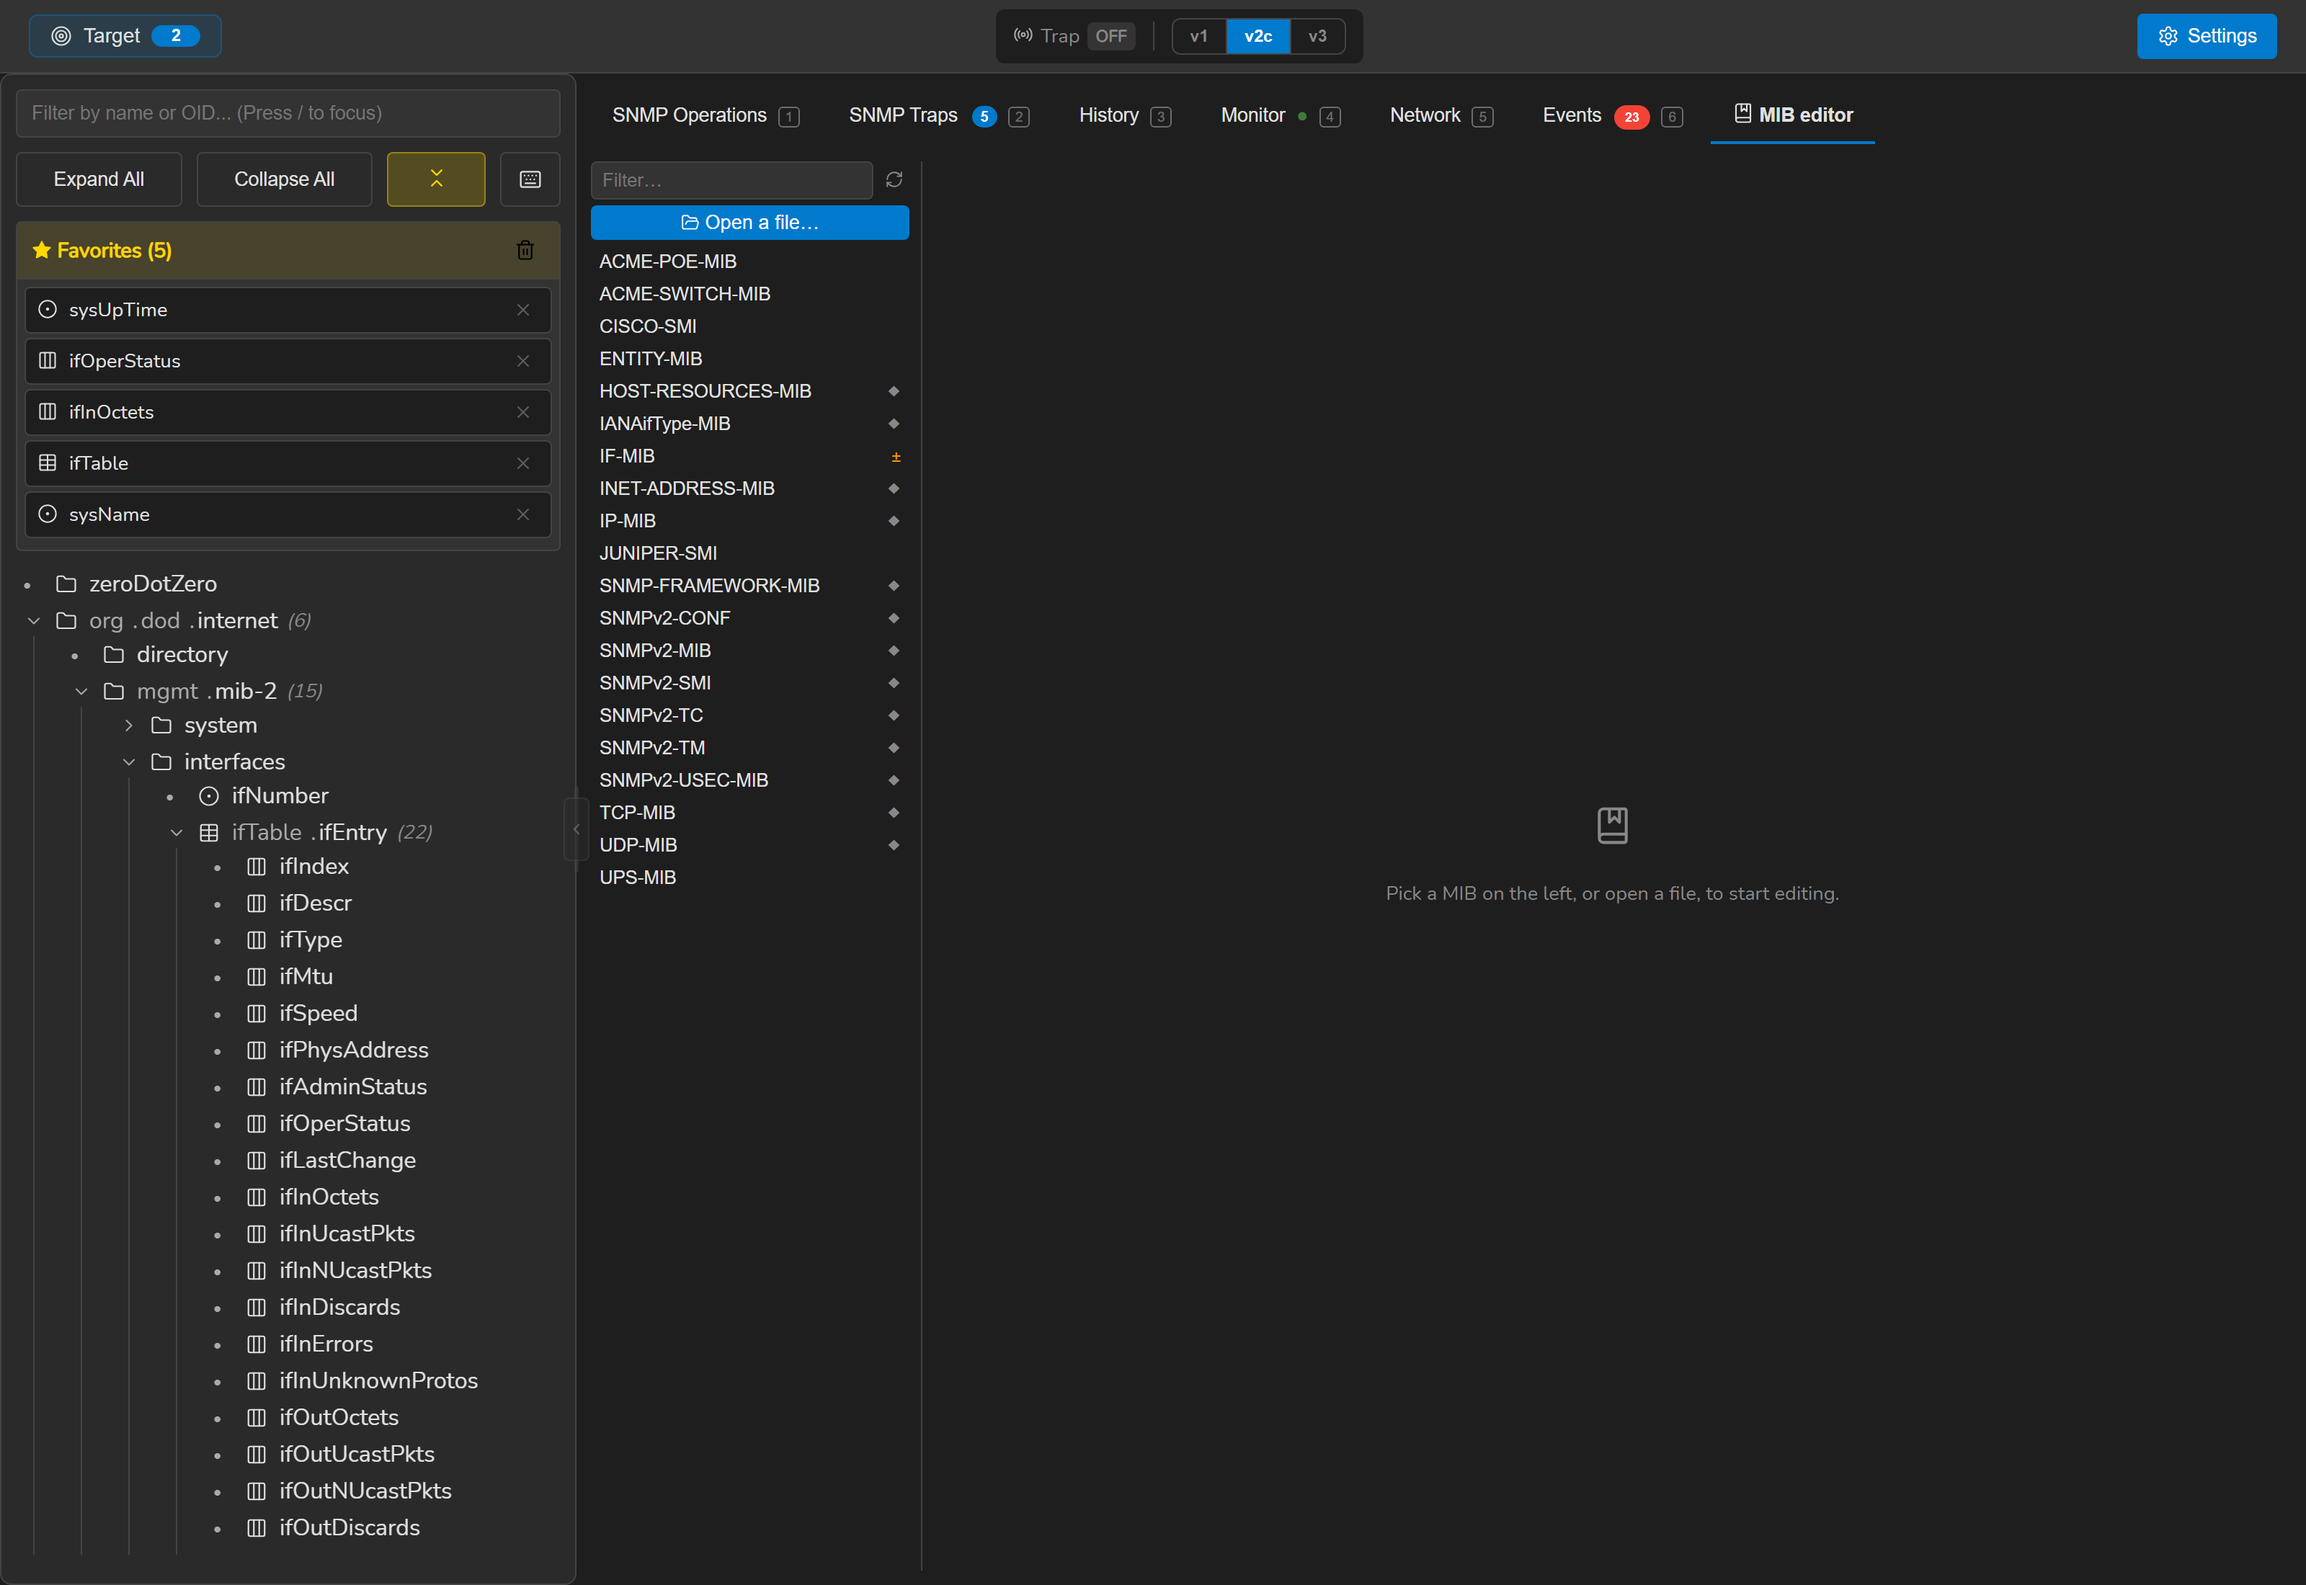
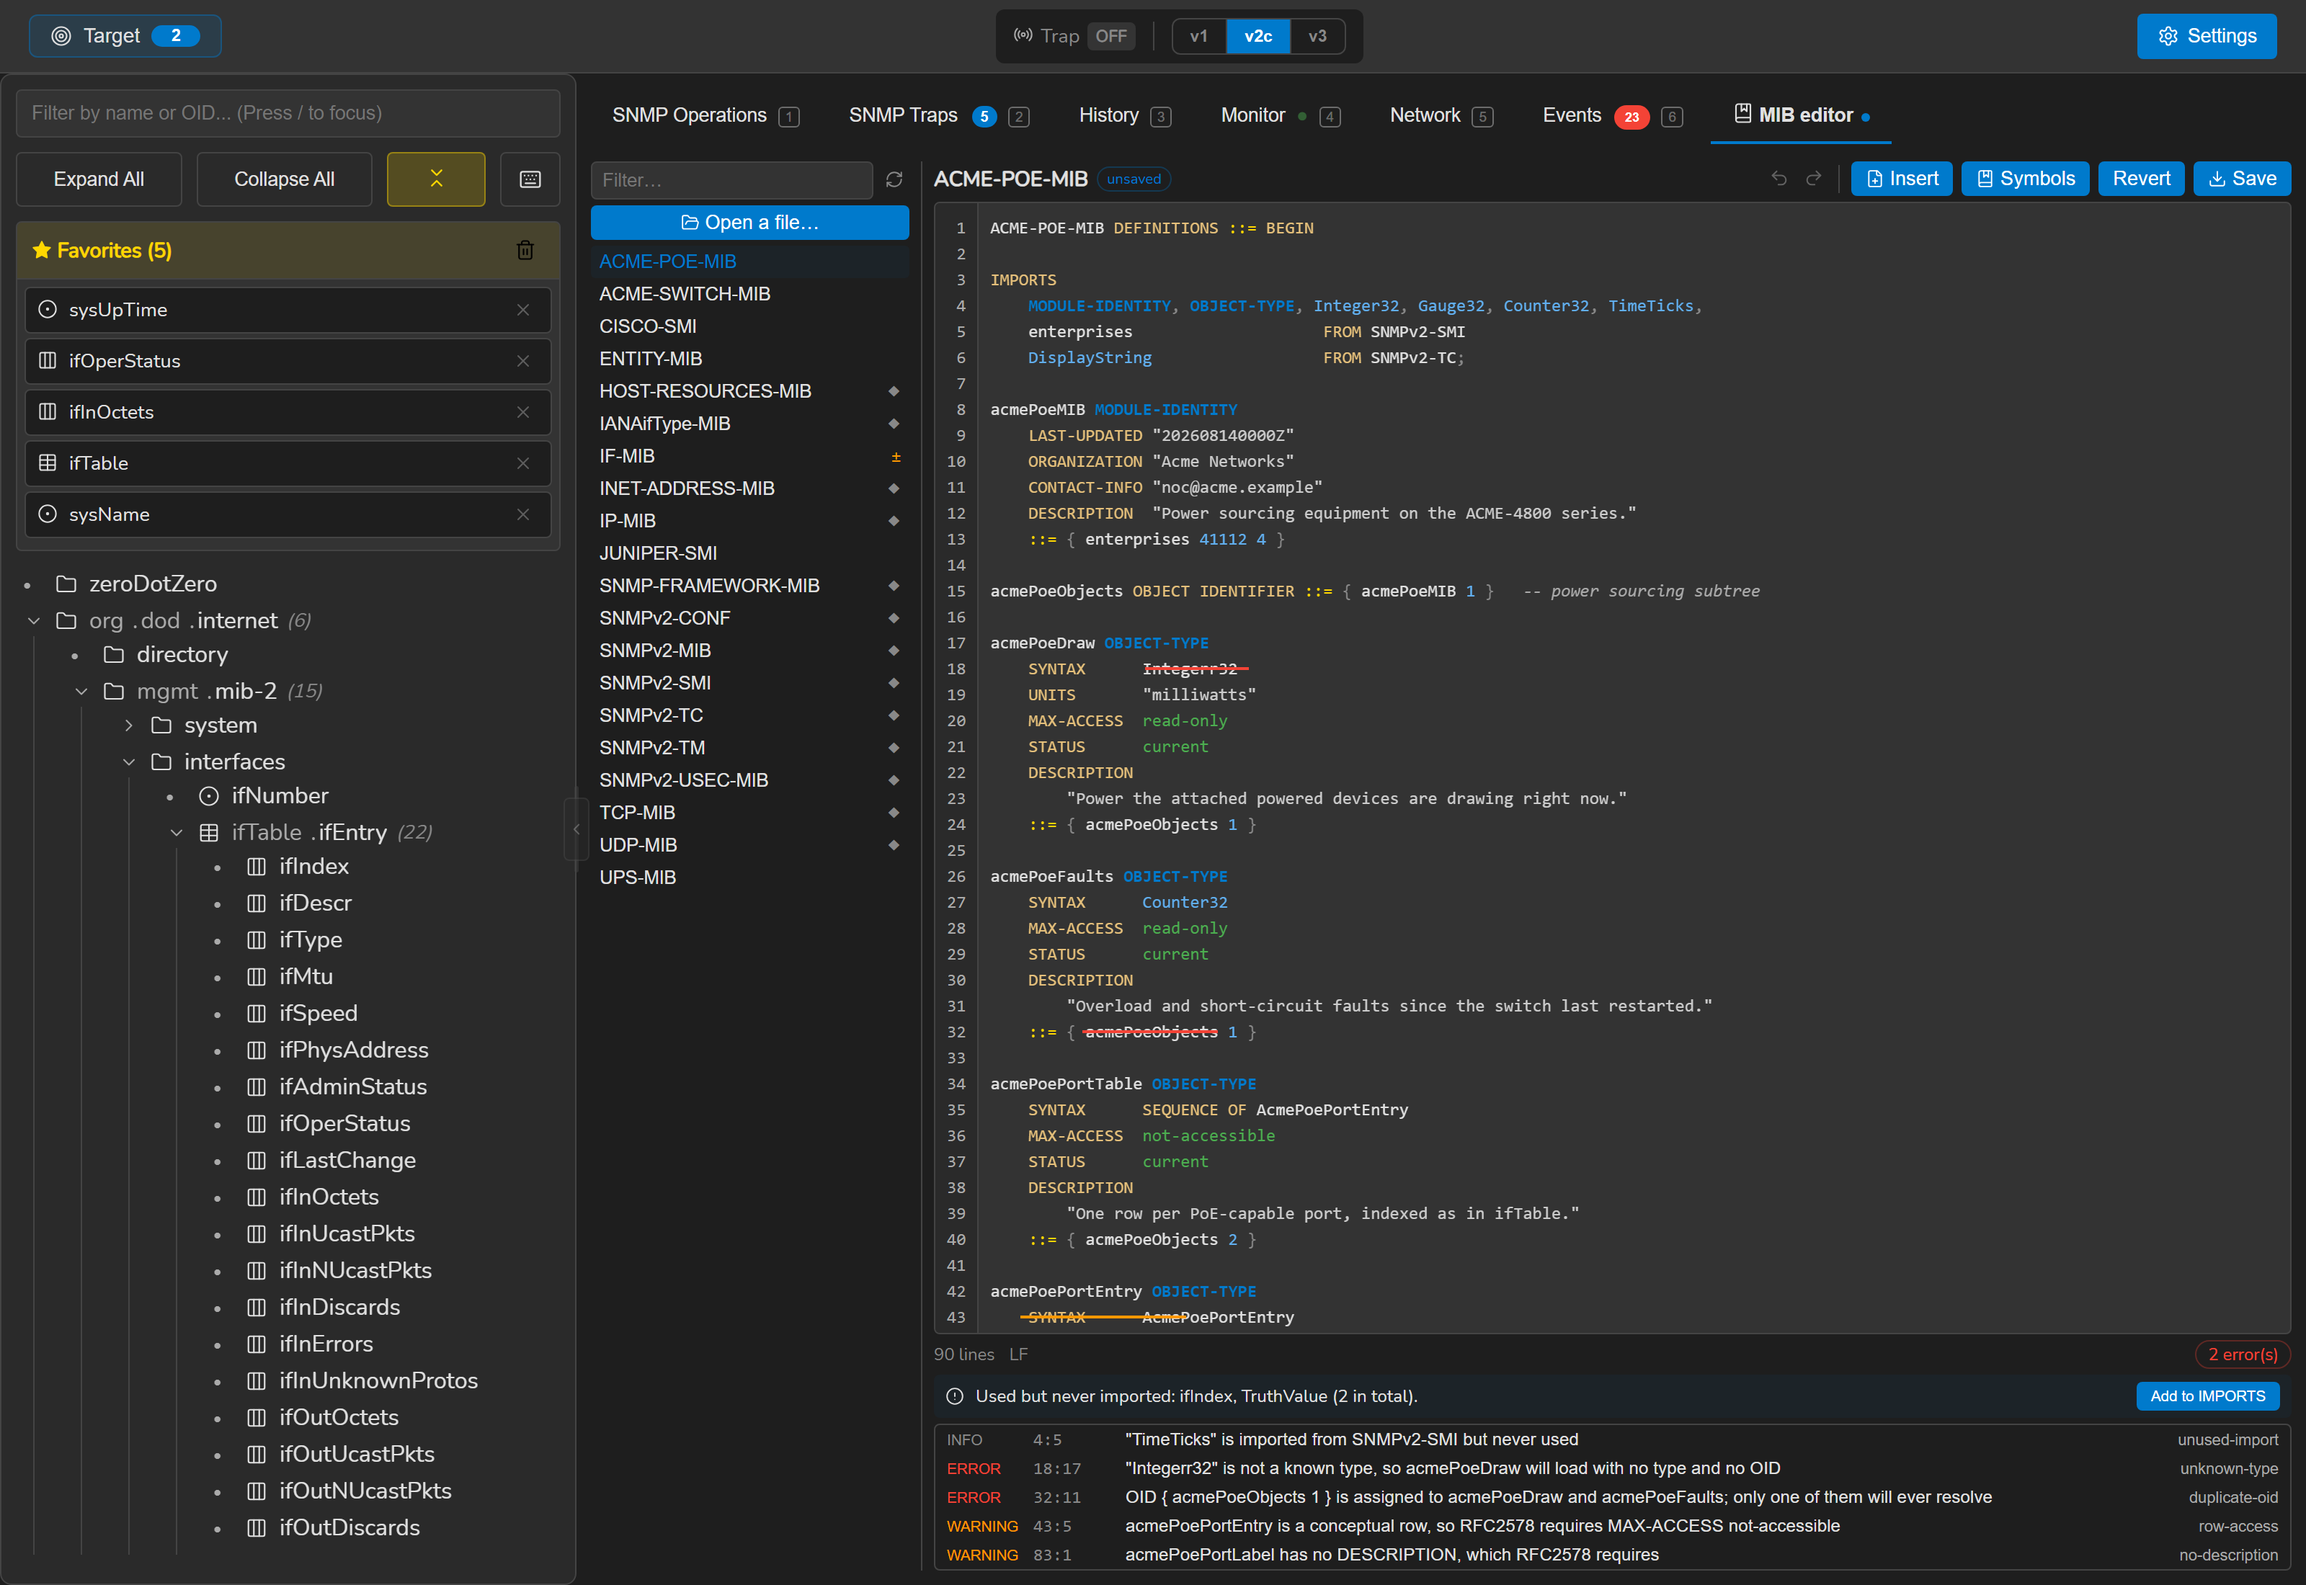
Open a MIB in the editor shot, and document targets and settings
Three gaps, and fixing the first found two bugs of my own.

THE EDITOR showed its empty state — "pick a MIB on the left" — which is a
picture of the file list rather than of the editor. Opening one was not enough:
the fixture's `content` was a DESCRIPTION of the file rather than the file
("<<the 90-line ACME-POE-MIB printed verbatim in visualDirection>>"), so the
highlighter would have rendered that sentence, and the diagnostics pointed at
lines of a file that did not exist. The MIB is here for real, imported rather
than pasted, because the positions are derived from it: line 18 column 17 is
exactly where `Integerr32` starts.

Opening a file does not run the analysis — only an edit or a RECOVERED DRAFT
does. So the copy on disk is sound and the unsaved draft is what introduced the
error, which is a real mechanism rather than a trick, and shows two things in
one frame: work surviving a closed window, and the semantic pass catching what
loading alone reports as success.

TARGETS AND SETTINGS now have their own images, placed in the documentation
beside the sections they illustrate rather than only in the gallery. The targets
dialog shows eight devices across four groups with three carrying a per-device
override — two routers migrated to v3 and a UPS still on v1, which is the
situation the feature exists for. The SNMP tab names the credential backend in
use, with a v3 user and BLANK passphrases: the interface never receives a stored
[…]

diff --git a/docs/documentation.html b/docs/documentation.html
@@ -244,6 +244,10 @@ python tools/snmp_test_agent.py --trap-port 1162 --trap-interval 10</code></pre>
         written — saving a credential fails and says so. It is never silently discarded, and
         good ciphertext is never overwritten with a half-sealed value.
       </p>
+      <figure class="shot" style="margin-top:1.5rem">
+        <img src="assets/img/settings-snmp.png" alt="The SNMP settings tab: version, community, timeouts, and the v3 authentication and privacy protocols." loading="lazy" />
+        <figcaption>The defaults every target inherits until it overrides them.</figcaption>
+      </figure>
     </section>
 
     <!-- ---------------------------------------------------------------- -->
@@ -258,6 +262,11 @@ python tools/snmp_test_agent.py --trap-port 1162 --trap-interval 10</code></pre>
         <strong>Test connection</strong> checks reachability and credentials before you run
         an operation against fifty devices.
       </p>
+      <figure class="shot" style="margin-top:1.5rem">
+        <img src="assets/img/target-manager.png" alt="The targets dialog: eight devices across four groups, three of them carrying a per-device override." loading="lazy" />
+        <figcaption>Groups down the top, and the marker beside an address means that device
+          overrides the defaults — here two routers on v3 and a UPS still on v1.</figcaption>
+      </figure>
     </section>
 
     <!-- ---------------------------------------------------------------- -->
@@ -398,6 +407,12 @@ python tools/snmp_test_agent.py --trap-port 1162 --trap-interval 10</code></pre>
         same module and win. Unsaved work is mirrored to a draft file, so it survives closing
         the window.
       </p>
+      <figure class="shot" style="margin-top:1.5rem">
+        <img src="assets/img/mib-editor.png" alt="The MIB editor with a vendor MIB open, syntax highlighted, two errors underlined, and a list of five diagnostics with their line and column." loading="lazy" />
+        <figcaption>An unsaved draft recovered from a previous session, with the analysis
+          pointing at an unknown type and a duplicated OID — neither of which loading the
+          module would have reported.</figcaption>
+      </figure>
     </section>
 
     <hr />
@@ -600,6 +615,12 @@ python tools/snmp_test_agent.py --trap-port 1162 --trap-interval 10</code></pre>
           200 having been sent nothing — and the delivery would be recorded as successful.
         </p>
       </div>
+      <figure class="shot" style="margin-top:1.5rem">
+        <img src="assets/img/settings-notifications.png" alt="Notification settings: three destinations, three routing rules with priorities, and a delivery log containing one given-up delivery." loading="lazy" />
+        <figcaption>Destinations, the rules that select them, and the delivery log — including
+          the one delivery that was given up on, with what the relay said and a button to try
+          again.</figcaption>
+      </figure>
     </section>
 
     <!-- ---------------------------------------------------------------- -->

diff --git a/frontend/screenshots/scenes.js b/frontend/screenshots/scenes.js
@@ -132,7 +132,74 @@ export function buildScenes(seeds) {
     tab: TABS.mibeditor,
     theme: 'dark',
     height: 1100,
-    describe: 'A MIB open with syntax highlighting and a diagnostic on the line.',
+    // Without this the editor shows its empty state — "pick a MIB on the left"
+    // — which is a picture of the file list, not of the editor.
+    act: ['ACME-POE-MIB'],
+    describe: 'A MIB open, highlighted, with the analysis pointing at the line.',
+  }),
+
+  scene(base, 'target-manager', {
+    tab: TABS.operations,
+    theme: 'dark',
+    // Framed to the dialog. At 1100 the lower half was empty backdrop, which
+    // makes a documentation image about a dialog mostly about nothing.
+    height: 940,
+    // A real estate rather than two devices: three groups, and per-device
+    // overrides on the two that were migrated to v3 while the rest were not,
+    // which is the situation the feature exists for.
+    settings: {
+      targets: [
+        '10.20.0.1 # core-sw-01',
+        '10.20.0.2 # core-sw-02',
+        '10.20.4.11 # dist-sw-2f',
+        '10.20.4.12 # dist-sw-3f',
+        '10.20.4.23 # dist-sw-4f',
+        '10.20.8.1 # edge-rtr-01',
+        '10.20.8.2 # edge-rtr-02',
+        '192.168.30.5 # ups-server-room',
+      ].join('\n'),
+      targetGroups: [
+        { id: 'default', name: 'Default' },
+        { id: 'core', name: 'Core switches' },
+        { id: 'dist', name: 'Distribution' },
+        { id: 'edge', name: 'Edge routers' },
+      ],
+      targetGroupAssignments: {
+        '10.20.0.1': 'core', '10.20.0.2': 'core',
+        '10.20.4.11': 'dist', '10.20.4.12': 'dist', '10.20.4.23': 'dist',
+        '10.20.8.1': 'edge', '10.20.8.2': 'edge',
+      },
+      targetOverrides: {
+        '10.20.8.1': { snmpVersion: 'v3', v3: { user: 'noc-ro', authProto: 'SHA-256', privProto: 'AES-256' } },
+        '10.20.8.2': { snmpVersion: 'v3', v3: { user: 'noc-ro', authProto: 'SHA-256', privProto: 'AES-256' } },
+        '192.168.30.5': { snmpVersion: 'v1', port: 1161 },
+      },
+    },
+    act: ['Target'],
+    describe: 'Managing targets: groups, per-device overrides, reachability.',
+  }),
+
+  scene(base, 'settings-snmp', {
+    tab: TABS.operations,
+    theme: 'dark',
+    height: 1100,
+    // A named v3 user, with the passphrases BLANK — which is not an oversight.
+    // The interface never receives a stored credential back from the backend,
+    // so an empty field beside a filled username is what a configured
+    // installation actually looks like.
+    settings: {
+      v3: { user: 'noc-ro', secLevel: 'authPriv', authProto: 'SHA-256', privProto: 'AES-256' },
+    },
+    act: ['key:,', 'SNMP'],
+    describe: 'SNMP defaults and the v3 credentials, with the store named.',
+  }),
+
+  scene(base, 'settings-notifications', {
+    tab: TABS.operations,
+    theme: 'dark',
+    height: 1250,
+    act: ['key:,', 'Notifications'],
+    describe: 'Destinations, routing rules, and the delivery log.',
   }),
 
   scene(base, 'anonymous-mode', {

diff --git a/frontend/vite.screenshots.config.js b/frontend/vite.screenshots.config.js
@@ -105,13 +105,20 @@ function injectScene() {
   // and not a broken one.
   function clickText(text) {
     var nodes = document.querySelectorAll('button, .tab-btn, [role="button"]');
+    var loose = null;
+
+    // TWO passes. An exact match anywhere beats a prefix match earlier in the
+    // document: searching for "SNMP" with prefix matching alone finds the
+    // "SNMP Operations" workspace tab long before the "SNMP" settings tab, and
+    // clicks the wrong thing while reporting success.
     for (var i = 0; i < nodes.length; i++) {
-      var label = (nodes[i].textContent || '').trim();
-      if (label === text || label.replace(/\s+/g, ' ') === text) {
-        nodes[i].click();
-        return true;
-      }
+      var label = (nodes[i].textContent || '').replace(/\\s+/g, ' ').trim();
+      if (label === text) { nodes[i].click(); return true; }
+      // The prefix case exists for labels with an adornment after them: the MIB
+      // list appends a bundled marker, so "IF-MIB" arrives as "IF-MIB ◆".
+      if (loose === null && label.indexOf(text + ' ') === 0) loose = nodes[i];
     }
+    if (loose) { loose.click(); return true; }
     return false;
   }
 
@@ -120,7 +127,15 @@ function injectScene() {
     (function next() {
       if (i >= steps.length) { setTimeout(done, 700); return; }
       var step = steps[i++];
-      clickText(step);
+      // "key:," presses Ctrl+comma. Some things have no button at all — the
+      // settings dialog is opened by a shortcut and nothing else.
+      if (step.indexOf('key:') === 0) {
+        window.dispatchEvent(new KeyboardEvent('keydown', {
+          key: step.slice(4), ctrlKey: true, bubbles: true,
+        }));
+      } else {
+        clickText(step);
+      }
       setTimeout(next, 450);
     })();
   }

diff --git a/frontend/screenshots/bridge/dynamic.js b/frontend/screenshots/bridge/dynamic.js
@@ -138,3 +138,38 @@ dynamic.SnmpWalk = () => {
   if (!walk) walk = ifTableWalk();
   return walk;
 };
+
+/**
+ * The MIB the editor screenshot has open.
+ *
+ * The specification's `content` was a DESCRIPTION of the file rather than the
+ * file — "<<the 90-line ACME-POE-MIB printed verbatim in visualDirection>>" —
+ * so opening it showed that sentence in a syntax highlighter. The text is here
+ * for real, imported rather than pasted into a JS string, because the diagnostic
+ * positions are derived from it: line 18 column 17 is exactly where `Integerr32`
+ * starts, and line 32 is the second `::= { acmePoeObjects 1 }`. A stray edit to
+ * the text moves the squiggles off the thing they are pointing at.
+ */
+import ACME_POE_MIB from './acme-poe-mib.txt?raw';
+
+// The copy ON DISK is sound: `SYNTAX Gauge32`. The unsaved draft below is what
+// introduced `Integerr32`, and that difference is what makes the editor recover
+// the draft — which is also the only path that runs the analysis on open. So one
+// picture shows two things: work surviving a closed window, and the semantic
+// pass catching what loading alone would not.
+const ON_DISK = ACME_POE_MIB.split('\n')
+  .map((line, i) => (i === 17 ? '    SYNTAX      Gauge32' : line))
+  .join('\n');
+
+dynamic.MibEditorReadDraft = () => ACME_POE_MIB;
+
+dynamic.MibEditorRead = () => ({
+  name: 'ACME-POE-MIB',
+  path: 'C:\Users\ops\AppData\Roaming\SnmpLens\mibs\ACME-POE-MIB',
+  content: ON_DISK,
+  eol: 'lf',
+  bundled: false,
+  external: false,
[1 lines of base64/hex data omitted]
+  diagnostics: [],
+});
